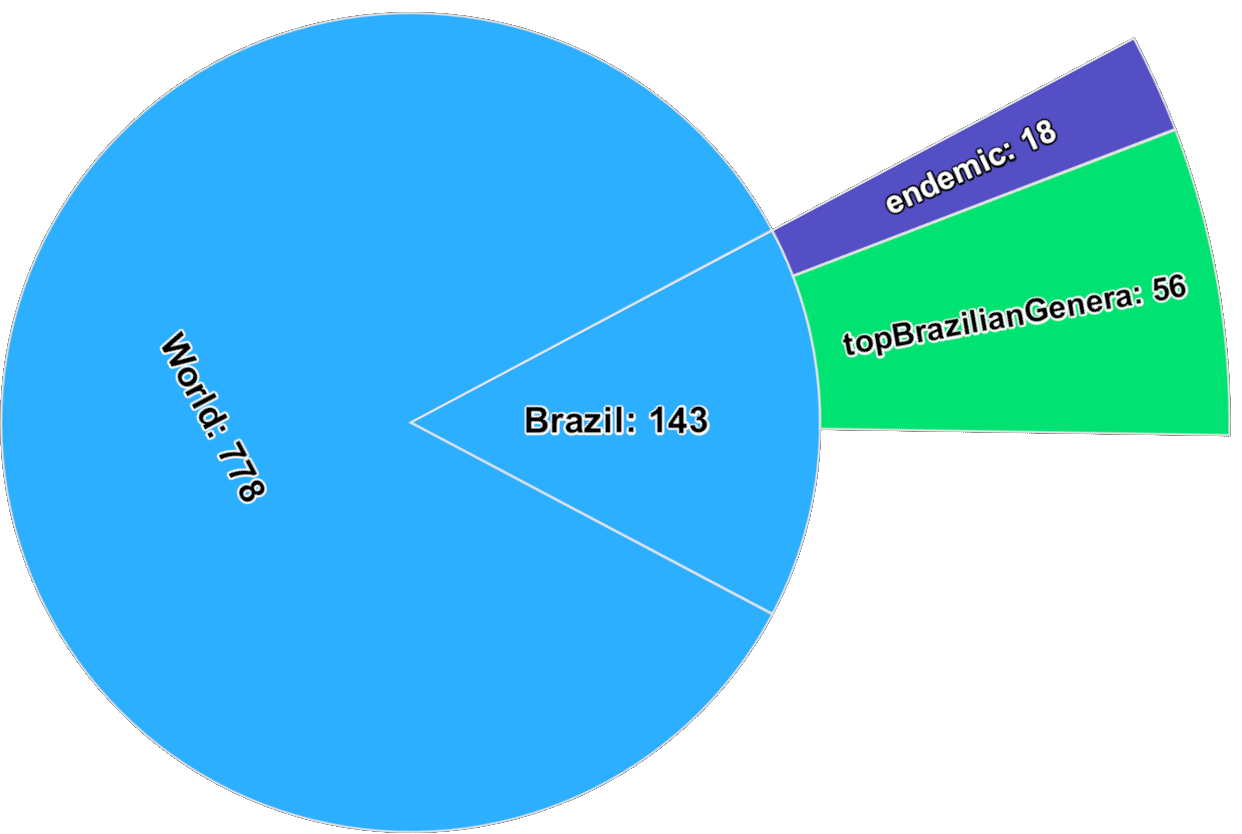
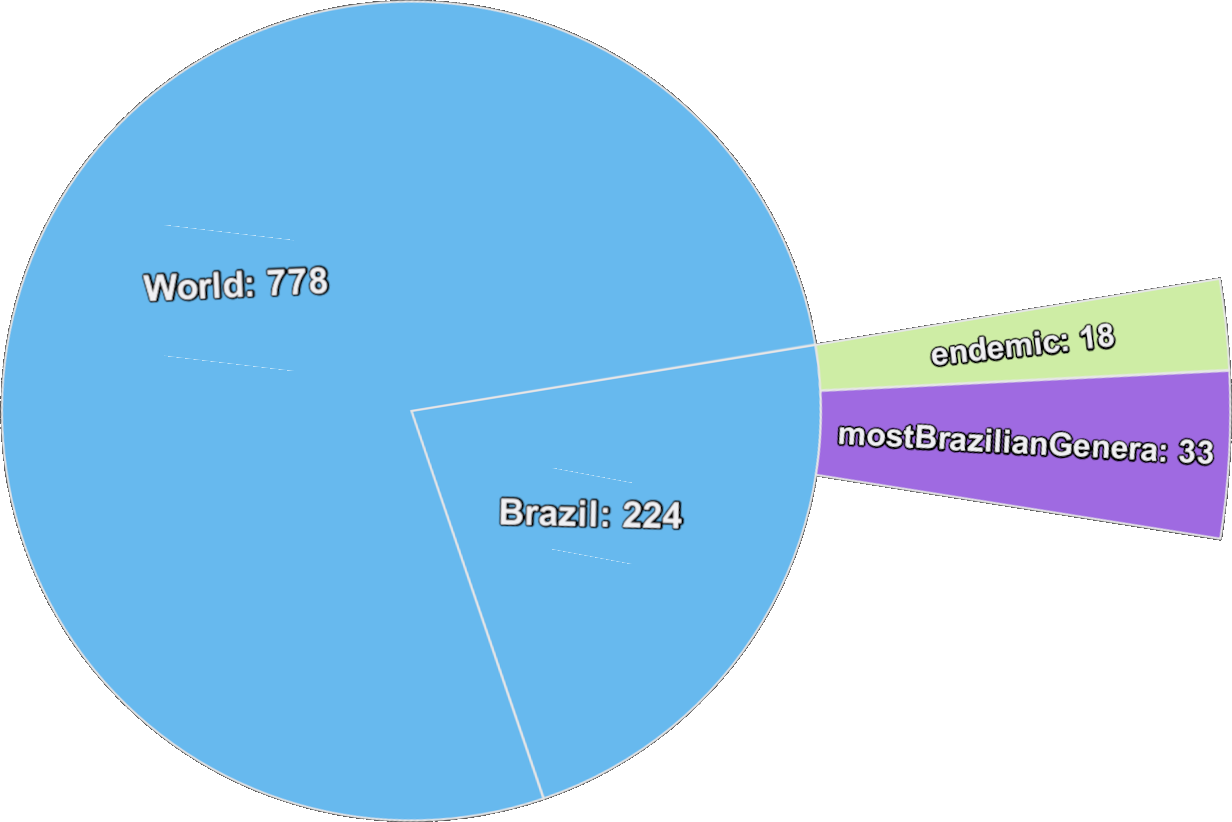
commit

diff --git a/index.html b/index.html
@@ -96,13 +96,14 @@
                     Nina L.A. Nunes, Roseli Bortoluzzi, Rubens T. de Queiroz, Silvia T.S. Miotto,
                     Valquiria F. Dutra, Vidal F. Mansano, Vinícius C. Souza
                 </p>
+                <a href="https://lsbjordao.github.io/8ILC/">https://lsbjordao.github.io/8ILC/</a>
                 <img src="./images/logo.png" style="width: 70%;">
             </section>
 
             <section data-transition="none">
                 <h4>worldwide (genera): 778</h4>
                 <img class="r-stretch" src="./images/worldGenera.png">
-                <small>source: WCVP, 2023 (2022-05-26)</small>
+                <small>sources: WCVP (2022-05-26) | FFB http://floradobrasil.jbrj.gov.br/ (2023-05-19)</small>
             </section>
 
             <section data-transition="convex">
@@ -113,27 +114,18 @@
             </section>
 
             <section data-transition="convex">
-                <section data-transition="none">
-                    <h4>the most Brazilian genera: 56</h4>
-                    <img src="./images/genera-with-the-highest (1).png" style="width: 100%;">
-                </section>
-                <section data-transition="none">
-                    <h5>the most Brazilian genera: 56</h5>
-                    <p></p>
-                    <img src="./images/genera-with-the-highest (2).png" style="width: 100%;">
-                </section>
+                <h4>the most Brazilian genera: 33</h4>
+                <img src="./images/mostBrazilianGenera.png" style="width: 100%;">
             </section>
 
             <section data-transition="convex">
                 <h4>worldwide (species): 22,323</h4>
                 <img src="./images/world.png">
-                <small>source: WCVP, 2023 (2022-05-26)</small>
             </section>
 
             <section data-transition="convex">
                 <h4>Brazil: 2,857 (12.8%)</h4>
                 <img src="./images/Brazil.png">
-                <small>source: FFB http://floradobrasil.jbrj.gov.br/ (2023-05-19)</small>
             </section>
 
             <section data-transition="convex">
@@ -288,10 +280,14 @@
             <section data-transition="convex">
                 <h4>Ongoing and next Steps</h4>
                 <ul>
-                    <li class="fragment fade-in-then-semi-out">Integrate data from MapBiomas Land Trasitions, MapBiomas Alerta, and MapBiomas Fogo</li>
-                    <li class="fragment fade-in-then-semi-out">Explore methods to integrate fire data from MapBiomas into assessments effectively</li>
-                    <li class="fragment fade-in-then-semi-out">Enhance communication with collaborators by implementing a messaging system to streamline the collection of data</li>
-                    <li class="fragment fade-in-then-semi-out">Improve historical data analysis techniques through advanced methodologies</li>
+                    <li class="fragment fade-in-then-semi-out">Integrate data from MapBiomas Land Trasitions, MapBiomas
+                        Alerta, and MapBiomas Fogo</li>
+                    <li class="fragment fade-in-then-semi-out">Explore methods to integrate fire data from MapBiomas
+                        into assessments effectively</li>
+                    <li class="fragment fade-in-then-semi-out">Enhance communication with collaborators by implementing
+                        a messaging system to streamline the collection of data</li>
+                    <li class="fragment fade-in-then-semi-out">Improve historical data analysis techniques through
+                        advanced methodologies</li>
                 </ul>
             </section>
 
